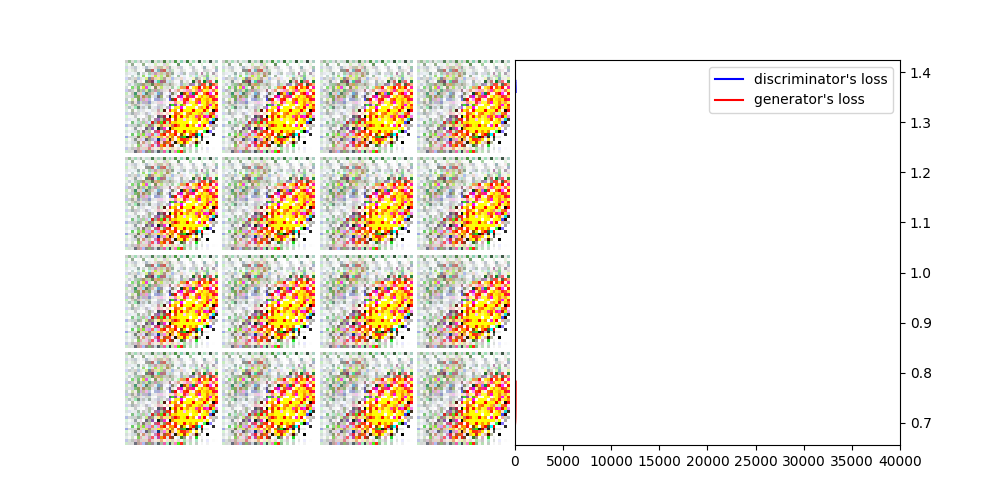
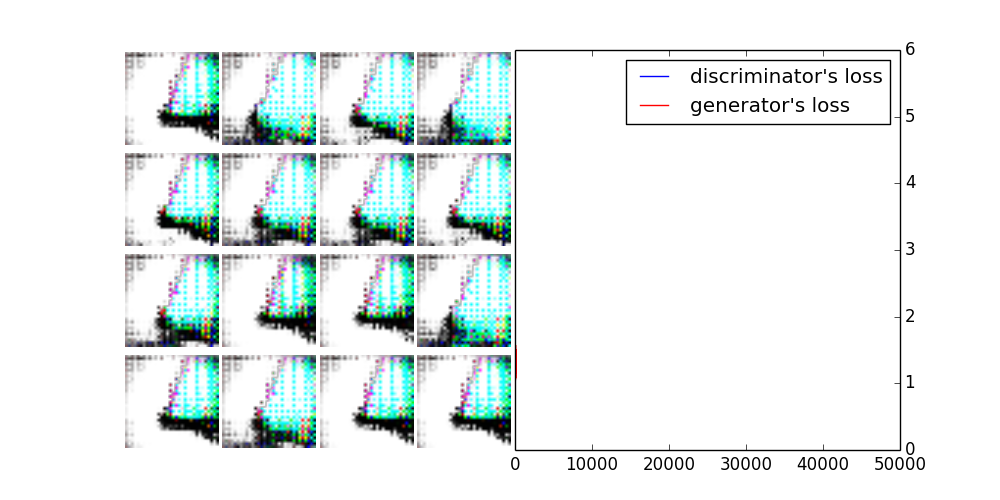
Add minibatch discrimination

diff --git a/main.py b/main.py
@@ -13,7 +13,7 @@ import scipy.misc
 import commands
 import time
 
-ITERATIONS = 40
+ITERATIONS = 50
 BATCH_SIZE = 64
 EPOCHS = 1000
 IMAGE_SIZE = 32*32*4
@@ -21,8 +21,8 @@ IMAGE_SIZE = 32*32*4
 image_filenames = []
 
 def get_image_filenames():
-	s = commands.getstatusoutput('ls small_data')
-	filenames = ['small_data/' + string for string in s[1].split()]
+	s = commands.getstatusoutput('ls data')
+	filenames = ['data/' + string for string in s[1].split()]
 	shuffle(filenames)
 	return filenames
 image_filenames = get_image_filenames() # Load all image filenames into memory
@@ -157,6 +157,25 @@ def BatchNormalization(input, name='bn'):
 def LeakyReLU(input, leak=0.6, name='lrelu'):
 	return tf.maximum(input, leak*input, name='LeakyRelu')
 
+def minibatch(inputs, num_kernels=5, kernel_dim=3):
+	with tf.variable_scope('minibatch_discrim'):
+		W = tf.get_variable("W",
+							shape=[inputs.get_shape()[1], num_kernels*kernel_dim],
+							initializer=tf.random_normal_initializer(stddev=0.02))
+		b = tf.get_variable("b",
+							shape=[num_kernels*kernel_dim],
+							initializer=tf.constant_initializer(0.0))
+		variable_summaries(W)
+		variable_summaries(b)
+		x = tf.matmul(inputs, W) + b
+		activation = tf.reshape(x, (-1, num_kernels, kernel_dim))
+		diffs = tf.expand_dims(activation, 3) - tf.expand_dims(
+			tf.transpose(activation, [1, 2, 0]), 0)
+		eps = tf.expand_dims(np.eye(int(inputs.get_shape()[0]), dtype=np.float32), 1)
+		abs_diffs = tf.reduce_sum(tf.abs(diffs), 2) + eps
+		minibatch_features = tf.reduce_sum(tf.exp(-abs_diffs), 2)
+		return tf.concat([inputs, minibatch_features], 1)
+
 def Discriminator(X, reuse=False, name='d'):
 	# 2 conv3s, avg pool. then 2 conv3s, avg pool.
 	with tf.variable_scope(name, reuse=reuse):
@@ -165,9 +184,10 @@ def Discriminator(X, reuse=False, name='d'):
 			# X: -1, 32, 32, 4
 			D_conv1 = Conv2d(X, output_dim=32, kernel=(3,3), name='conv1')
 		else:
-			D_reshaped = tf.reshape(X, [-1, 32, 32, 4])
+			D_reshaped = tf.reshape(X, [BATCH_SIZE, 32, 32, 4])
 			D_conv1 = Conv2d(D_reshaped, output_dim=32, kernel=(3,3), name='conv1')
 		D_h1 = LeakyReLU(D_conv1)
+
 		D_conv2 = Conv2d(D_h1, output_dim=64, kernel=(3,3), name='conv2')
 		D_h2 = LeakyReLU(D_conv2)
 
@@ -180,9 +200,12 @@ def Discriminator(X, reuse=False, name='d'):
 
 		D_h4_pooled = tf.nn.avg_pool(D_h4, ksize=[1, 2, 2, 1], strides=[1, 2, 2, 1], padding='SAME')
 
-		D_r = tf.reshape(D_h4_pooled, [-1, 256])
+		D_r = tf.reshape(D_h4_pooled, [BATCH_SIZE, 256])
 		D_h5 = tf.nn.dropout(D_r, 0.6)
-		D_h6 = Dense(D_h5, output_dim=1, name='dense')
+
+		D_after_minibatch_discrim = minibatch(D_h5)
+
+		D_h6 = Dense(D_after_minibatch_discrim, output_dim=1, name='dense')
 		preds = tf.nn.sigmoid(D_h6, name='predictions')
 		return preds, D_h6, D_h4
 
@@ -195,7 +218,7 @@ def Generator(z, name='g'):
 	with tf.variable_scope(name):
 
 		G_1 = Dense(z, output_dim=1024*4*4, name='dense')
-		G_r1 = tf.reshape(G_1, [-1, 4, 4, 1024])
+		G_r1 = tf.reshape(G_1, [BATCH_SIZE, 4, 4, 1024])
 		G_bn1 = BatchNormalization(G_r1, name='dense_bn')
 		G_h1 = LeakyReLU(G_bn1)
 		with tf.name_scope('dense_activation'):
@@ -214,18 +237,18 @@ def Generator(z, name='g'):
 			variable_summaries(G_h3)
 
 		G_conv4 = Deconv2d(G_h3, output_dim=4, batch_size=BATCH_SIZE, name='deconv3')
-		G_r4 = tf.reshape(G_conv4, [-1, 32*32*4]) # -1 is for batch size
+		G_r4 = tf.reshape(G_conv4, [BATCH_SIZE, 32*32*4]) # -1 is for batch size
 		tanh_layer = tf.nn.tanh(G_r4)
 		with tf.name_scope('tanh'):
 			variable_summaries(tanh_layer)
 		return tanh_layer
 
-X = tf.placeholder(tf.float32, shape=[None, IMAGE_SIZE], name="real_images_input")
-z = tf.placeholder(tf.float32, shape=[None, 100], name="generator_latent_space_input")
+X = tf.placeholder(tf.float32, shape=[BATCH_SIZE, IMAGE_SIZE], name="real_images_input")
+z = tf.placeholder(tf.float32, shape=[BATCH_SIZE, 100], name="generator_latent_space_input")
 
 G = Generator(z, 'Generator')
 D_real_prob, D_real_logits, feature_matching_real = Discriminator(X, False, 'Discriminator')
-D_fake_prob, D_fake_logits, feature_matching_fake = Discriminator(G, True, 'Discriminator_reused')
+D_fake_prob, D_fake_logits, feature_matching_fake = Discriminator(G, True, 'Discriminator')
 
 tf.summary.histogram("d_real_prob", D_real_prob)
 tf.summary.histogram("d_fake_prob", D_fake_prob)
@@ -233,7 +256,7 @@ tf.summary.histogram("d_fake_prob", D_fake_prob)
 D_real = tf.reduce_mean(tf.nn.sigmoid_cross_entropy_with_logits(logits=D_real_logits, labels=(tf.ones_like(D_real_logits) * (0.8))), name="disc_real_cross_entropy") # one sided label smoothing
 D_fake = tf.reduce_mean(tf.nn.sigmoid_cross_entropy_with_logits(logits=D_fake_logits, labels=tf.zeros_like(D_fake_logits)), name="disc_fake_cross_entropy")
 D_fake_wrong = tf.reduce_mean(tf.nn.sigmoid_cross_entropy_with_logits(logits=D_fake_logits, labels=tf.ones_like(D_fake_logits)), name="generator_wrong_fake_cross_entropy")
-feature_matching_loss = tf.divide(tf.reduce_mean(tf.nn.l2_loss(feature_matching_real - feature_matching_fake)), (16 * 16), name="feature_matching_loss")
+feature_matching_loss = tf.divide(tf.reduce_mean(tf.nn.l2_loss(feature_matching_real - feature_matching_fake)), (float(16) * 16), name="feature_matching_loss")
 
 D_loss = tf.add(D_real, D_fake, "disc_loss")
 G_loss = tf.add(D_fake_wrong, 0.2 * feature_matching_loss, "generator_loss")
@@ -256,8 +279,8 @@ def train(loss_tensor, params, learning_rate, beta1):
 	return optimizer.apply_gradients(grads)
 
 
-D_solver = train(D_loss, d_params, learning_rate=1e-4, beta1=0.5)
-G_solver = train(G_loss, g_params, learning_rate=2e-4, beta1=0.5)
+D_solver = train(D_loss, d_params, learning_rate=1e-3, beta1=0.5)
+G_solver = train(G_loss, g_params, learning_rate=1e-3, beta1=0.5)
 
 def normalize_image_batches(image_batches):
 	normalized_batches = np.zeros(image_batches.shape)
@@ -288,10 +311,6 @@ with tf.Session() as sess:
 			summary, _, G_loss_curr = sess.run([merged, G_solver, G_loss], {X: x, z: rand})
 
 			generated_images = sess.run(G, {z: rand})
-			print("Generated images")
-			for b in generated_images:
-				print("Another image:")
-				print(denormalize_image(b).reshape(32, 32, 4).astype(np.uint8))
 
 			train_writer.add_summary(summary, e*ITERATIONS + i + 1)
 
